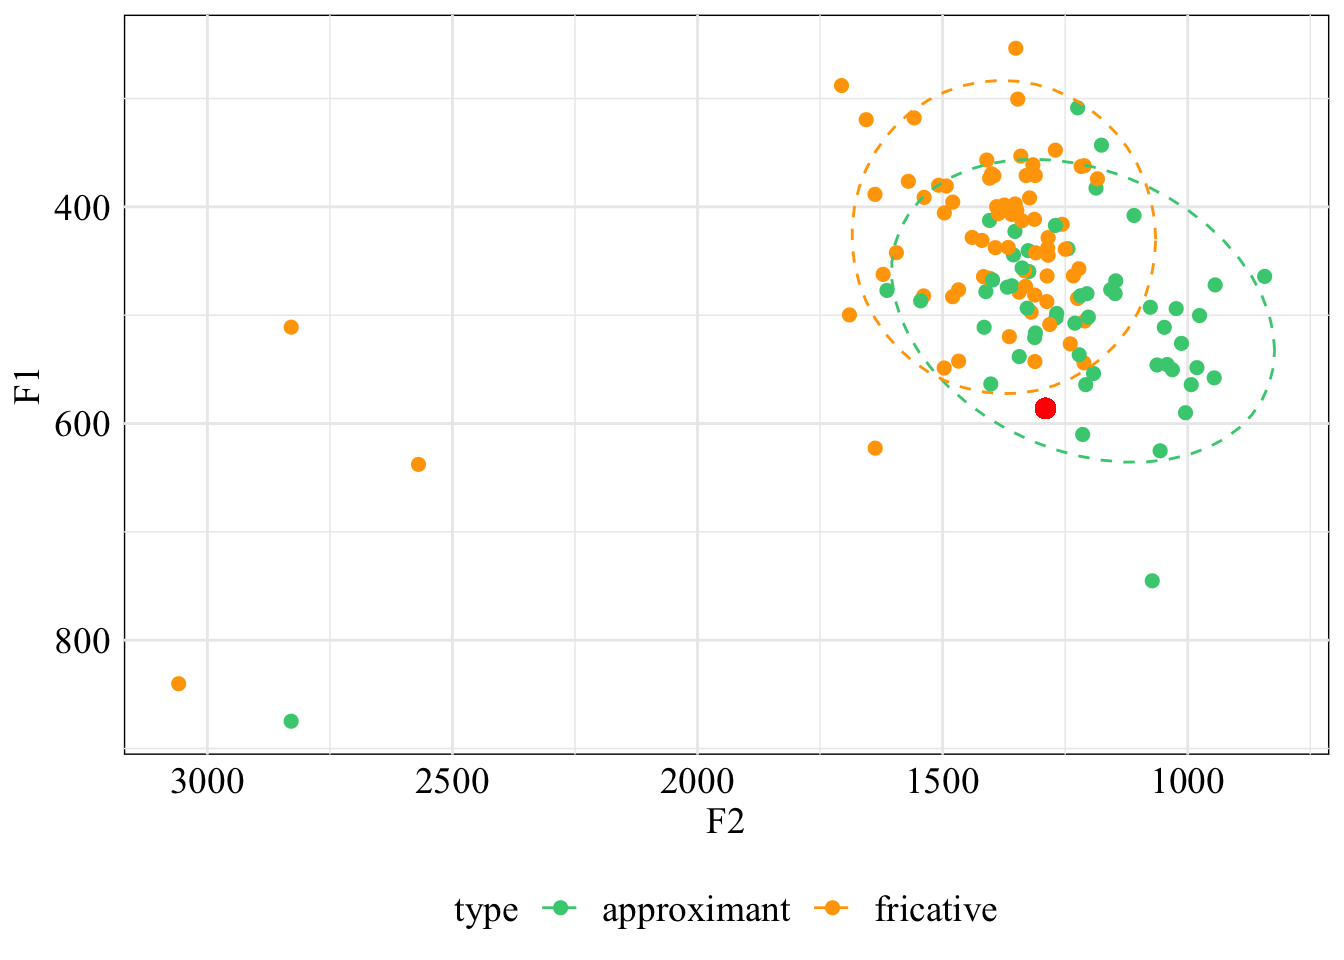
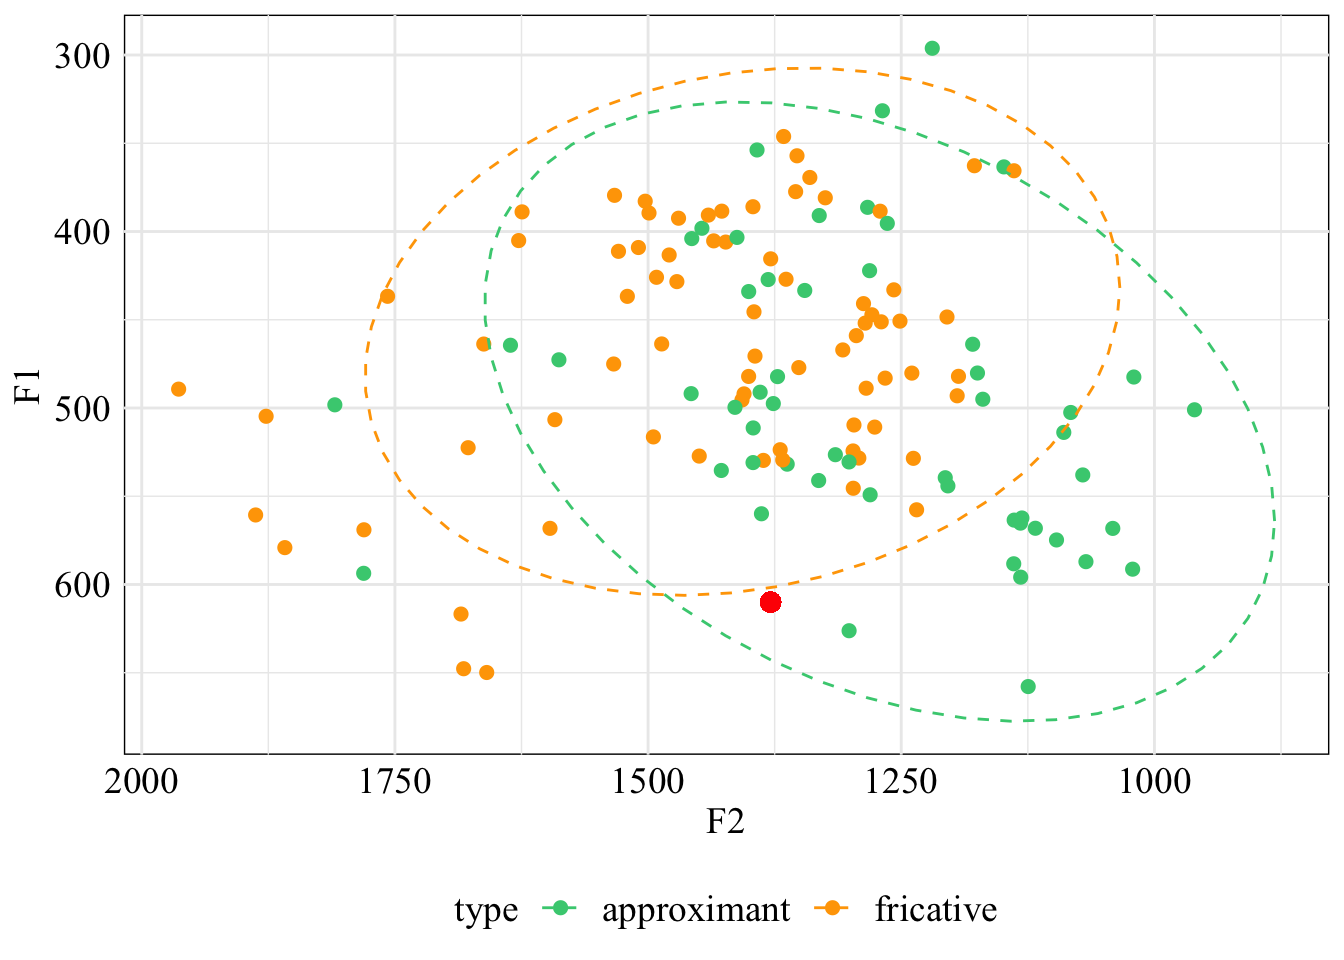
updated stuff

diff --git a/scripts/r/formant_and_classifier.html b/scripts/r/formant_and_classifier.html
@@ -68,11 +68,27 @@ ul.task-list li input[type="checkbox"] {
 </div>
 </div>
 </section>
+<section id="onset-f1-and-f2-for-approximants-fricatives-and-no-coarticulation" class="level2">
+<h2 class="anchored" data-anchor-id="onset-f1-and-f2-for-approximants-fricatives-and-no-coarticulation">Onset F1 and F2 for approximants, fricatives, and no coarticulation</h2>
+<div class="cell">
+<div class="cell-output-display">
+<p><img src="formant_and_classifier_files/figure-html/unnamed-chunk-3-1.png" class="img-fluid" width="672"></p>
+</div>
+</div>
+</section>
 <section id="midpoint-f1-and-f2-for-approximants-and-fricatives" class="level2">
 <h2 class="anchored" data-anchor-id="midpoint-f1-and-f2-for-approximants-and-fricatives">Midpoint F1 and F2 for approximants and fricatives</h2>
 <div class="cell">
 <div class="cell-output-display">
-<p><img src="formant_and_classifier_files/figure-html/unnamed-chunk-3-1.png" class="img-fluid" width="672"></p>
+<p><img src="formant_and_classifier_files/figure-html/unnamed-chunk-4-1.png" class="img-fluid" width="672"></p>
+</div>
+</div>
+</section>
+<section id="midpoint-f1-and-f2-for-approximants-fricatives-and-no-coarticulation" class="level2">
+<h2 class="anchored" data-anchor-id="midpoint-f1-and-f2-for-approximants-fricatives-and-no-coarticulation">Midpoint F1 and F2 for approximants, fricatives, and no coarticulation</h2>
+<div class="cell">
+<div class="cell-output-display">
+<p><img src="formant_and_classifier_files/figure-html/unnamed-chunk-5-1.png" class="img-fluid" width="672"></p>
 </div>
 </div>
 </section>
@@ -80,127 +96,141 @@ ul.task-list li input[type="checkbox"] {
 <h2 class="anchored" data-anchor-id="offset-f1-and-f2-for-approximants-and-fricatives">Offset F1 and F2 for approximants and fricatives</h2>
 <div class="cell">
 <div class="cell-output-display">
-<p><img src="formant_and_classifier_files/figure-html/unnamed-chunk-4-1.png" class="img-fluid" width="672"></p>
-</div>
-</div>
-<div class="cell">
-<div class="cell-output-display">
-<p><img src="formant_and_classifier_files/figure-html/unnamed-chunk-5-1.png" class="img-fluid" width="672"></p>
-</div>
-</div>
-<div class="cell">
-<div class="cell-output-display">
 <p><img src="formant_and_classifier_files/figure-html/unnamed-chunk-6-1.png" class="img-fluid" width="672"></p>
 </div>
 </div>
-<section id="onset-classifier" class="level3">
-<h3 class="anchored" data-anchor-id="onset-classifier">Onset classifier</h3>
+</section>
+<section id="offset-f1-and-f2-for-approximants-fricatives-and-no-coarticulation" class="level2">
+<h2 class="anchored" data-anchor-id="offset-f1-and-f2-for-approximants-fricatives-and-no-coarticulation">Offset F1 and F2 for approximants, fricatives, and no coarticulation</h2>
+<div class="cell">
+<div class="cell-output-display">
+<p><img src="formant_and_classifier_files/figure-html/unnamed-chunk-7-1.png" class="img-fluid" width="672"></p>
+</div>
+</div>
+</section>
+<section id="formant-trajectories-by-coarticulated-consonants" class="level2">
+<h2 class="anchored" data-anchor-id="formant-trajectories-by-coarticulated-consonants">Formant trajectories by coarticulated consonants</h2>
+<div class="cell">
+<div class="cell-output-display">
+<p><img src="formant_and_classifier_files/figure-html/unnamed-chunk-8-1.png" class="img-fluid" width="672"></p>
+</div>
+</div>
+</section>
+<section id="formant-trajectories-by-type" class="level2">
+<h2 class="anchored" data-anchor-id="formant-trajectories-by-type">Formant trajectories by type</h2>
+<div class="cell">
+<div class="cell-output-display">
+<p><img src="formant_and_classifier_files/figure-html/unnamed-chunk-9-1.png" class="img-fluid" width="672"></p>
+</div>
+</div>
+<section id="onset-classifier-with-3-levels" class="level3">
+<h3 class="anchored" data-anchor-id="onset-classifier-with-3-levels">Onset classifier with 3 levels</h3>
 <div class="cell">
 <div class="cell-output cell-output-stdout">
 <pre><code>Confusion Matrix and Statistics
 
              y_pred
               approximant fricative no_coart
-  approximant          14        14        0
-  fricative             2        33        1
-  no_coart              0         1       15
+  approximant          11        15        0
+  fricative             1        36        1
+  no_coart              2         0       14
+
+Overall Statistics
+                                          
+               Accuracy : 0.7625          
+                 95% CI : (0.6542, 0.8505)
+    No Information Rate : 0.6375          
+    P-Value [Acc &gt; NIR] : 0.011766        
+                                          
+                  Kappa : 0.606           
+                                          
+ Mcnemar's Test P-Value : 0.001615        
+
+Statistics by Class:
+
+                     Class: approximant Class: fricative Class: no_coart
+Sensitivity                      0.7857           0.7059          0.9333
+Specificity                      0.7727           0.9310          0.9692
+Pos Pred Value                   0.4231           0.9474          0.8750
+Neg Pred Value                   0.9444           0.6429          0.9844
+Prevalence                       0.1750           0.6375          0.1875
+Detection Rate                   0.1375           0.4500          0.1750
+Detection Prevalence             0.3250           0.4750          0.2000
+Balanced Accuracy                0.7792           0.8185          0.9513</code></pre>
+</div>
+</div>
+</section>
+<section id="midpoint-classifier-with-3-levels" class="level3">
+<h3 class="anchored" data-anchor-id="midpoint-classifier-with-3-levels">Midpoint classifier with 3 levels</h3>
+<div class="cell">
+<div class="cell-output cell-output-stdout">
+<pre><code>Confusion Matrix and Statistics
+
+             y_pred
+              approximant fricative no_coart
+  approximant          22         5        0
+  fricative             1        36        0
+  no_coart              0         0       16
+
+Overall Statistics
+                                         
+               Accuracy : 0.925          
+                 95% CI : (0.8439, 0.972)
+    No Information Rate : 0.5125         
+    P-Value [Acc &gt; NIR] : 1.447e-15      
+                                         
+                  Kappa : 0.8802         
+                                         
+ Mcnemar's Test P-Value : NA             
+
+Statistics by Class:
+
+                     Class: approximant Class: fricative Class: no_coart
+Sensitivity                      0.9565           0.8780             1.0
+Specificity                      0.9123           0.9744             1.0
+Pos Pred Value                   0.8148           0.9730             1.0
+Neg Pred Value                   0.9811           0.8837             1.0
+Prevalence                       0.2875           0.5125             0.2
+Detection Rate                   0.2750           0.4500             0.2
+Detection Prevalence             0.3375           0.4625             0.2
+Balanced Accuracy                0.9344           0.9262             1.0</code></pre>
+</div>
+</div>
+</section>
+<section id="offset-classifier-with-3-levels" class="level3">
+<h3 class="anchored" data-anchor-id="offset-classifier-with-3-levels">Offset classifier with 3 levels</h3>
+<div class="cell">
+<div class="cell-output cell-output-stdout">
+<pre><code>Confusion Matrix and Statistics
+
+             y_pred
+              approximant fricative no_coart
+  approximant          21         6        0
+  fricative            12        25        0
+  no_coart              0         0       16
 
 Overall Statistics
                                           
                Accuracy : 0.775           
                  95% CI : (0.6679, 0.8609)
-    No Information Rate : 0.6             
-    P-Value [Acc &gt; NIR] : 0.0007272       
+    No Information Rate : 0.4125          
+    P-Value [Acc &gt; NIR] : 4.409e-11       
                                           
-                  Kappa : 0.6371          
-                                          
- Mcnemar's Test P-Value : NA              
-
-Statistics by Class:
-
-                     Class: approximant Class: fricative Class: no_coart
-Sensitivity                      0.8750           0.6875          0.9375
-Specificity                      0.7812           0.9062          0.9844
-Pos Pred Value                   0.5000           0.9167          0.9375
-Neg Pred Value                   0.9615           0.6591          0.9844
-Prevalence                       0.2000           0.6000          0.2000
-Detection Rate                   0.1750           0.4125          0.1875
-Detection Prevalence             0.3500           0.4500          0.2000
-Balanced Accuracy                0.8281           0.7969          0.9609</code></pre>
-</div>
-</div>
-</section>
-<section id="midpoint-classifier" class="level3">
-<h3 class="anchored" data-anchor-id="midpoint-classifier">Midpoint classifier</h3>
-<div class="cell">
-<div class="cell-output cell-output-stdout">
-<pre><code>Confusion Matrix and Statistics
-
-             y_pred
-              approximant fricative no_coart
-  approximant          13        14        0
-  fricative             4        33        0
-  no_coart              2         0       14
-
-Overall Statistics
-                                          
-               Accuracy : 0.75            
-                 95% CI : (0.6406, 0.8401)
-    No Information Rate : 0.5875          
-    P-Value [Acc &gt; NIR] : 0.00179         
-                                          
-                  Kappa : 0.5923          
+                  Kappa : 0.6493          
                                           
  Mcnemar's Test P-Value : NA              
 
 Statistics by Class:
 
                      Class: approximant Class: fricative Class: no_coart
-Sensitivity                      0.6842           0.7021          1.0000
-Specificity                      0.7705           0.8788          0.9697
-Pos Pred Value                   0.4815           0.8919          0.8750
-Neg Pred Value                   0.8868           0.6744          1.0000
-Prevalence                       0.2375           0.5875          0.1750
-Detection Rate                   0.1625           0.4125          0.1750
-Detection Prevalence             0.3375           0.4625          0.2000
-Balanced Accuracy                0.7274           0.7905          0.9848</code></pre>
-</div>
-</div>
-</section>
-<section id="offset-classifier-all-data" class="level3">
-<h3 class="anchored" data-anchor-id="offset-classifier-all-data">Offset classifier (all data)</h3>
-<div class="cell">
-<div class="cell-output cell-output-stdout">
-<pre><code>Confusion Matrix and Statistics
-
-             y_pred
-              approximant fricative no_coart
-  approximant          18        10        0
-  fricative             5        31        0
-  no_coart              0         0       16
-
-Overall Statistics
-                                          
-               Accuracy : 0.8125          
-                 95% CI : (0.7097, 0.8911)
-    No Information Rate : 0.5125          
-    P-Value [Acc &gt; NIR] : 2.438e-08       
-                                          
-                  Kappa : 0.7018          
-                                          
- Mcnemar's Test P-Value : NA              
-
-Statistics by Class:
-
-                     Class: approximant Class: fricative Class: no_coart
-Sensitivity                      0.7826           0.7561             1.0
-Specificity                      0.8246           0.8718             1.0
-Pos Pred Value                   0.6429           0.8611             1.0
-Neg Pred Value                   0.9038           0.7727             1.0
-Prevalence                       0.2875           0.5125             0.2
-Detection Rate                   0.2250           0.3875             0.2
-Detection Prevalence             0.3500           0.4500             0.2
-Balanced Accuracy                0.8036           0.8139             1.0</code></pre>
+Sensitivity                      0.6364           0.8065             1.0
+Specificity                      0.8723           0.7551             1.0
+Pos Pred Value                   0.7778           0.6757             1.0
+Neg Pred Value                   0.7736           0.8605             1.0
+Prevalence                       0.4125           0.3875             0.2
+Detection Rate                   0.2625           0.3125             0.2
+Detection Prevalence             0.3375           0.4625             0.2
+Balanced Accuracy                0.7544           0.7808             1.0</code></pre>
 </div>
 </div>
 </section>
